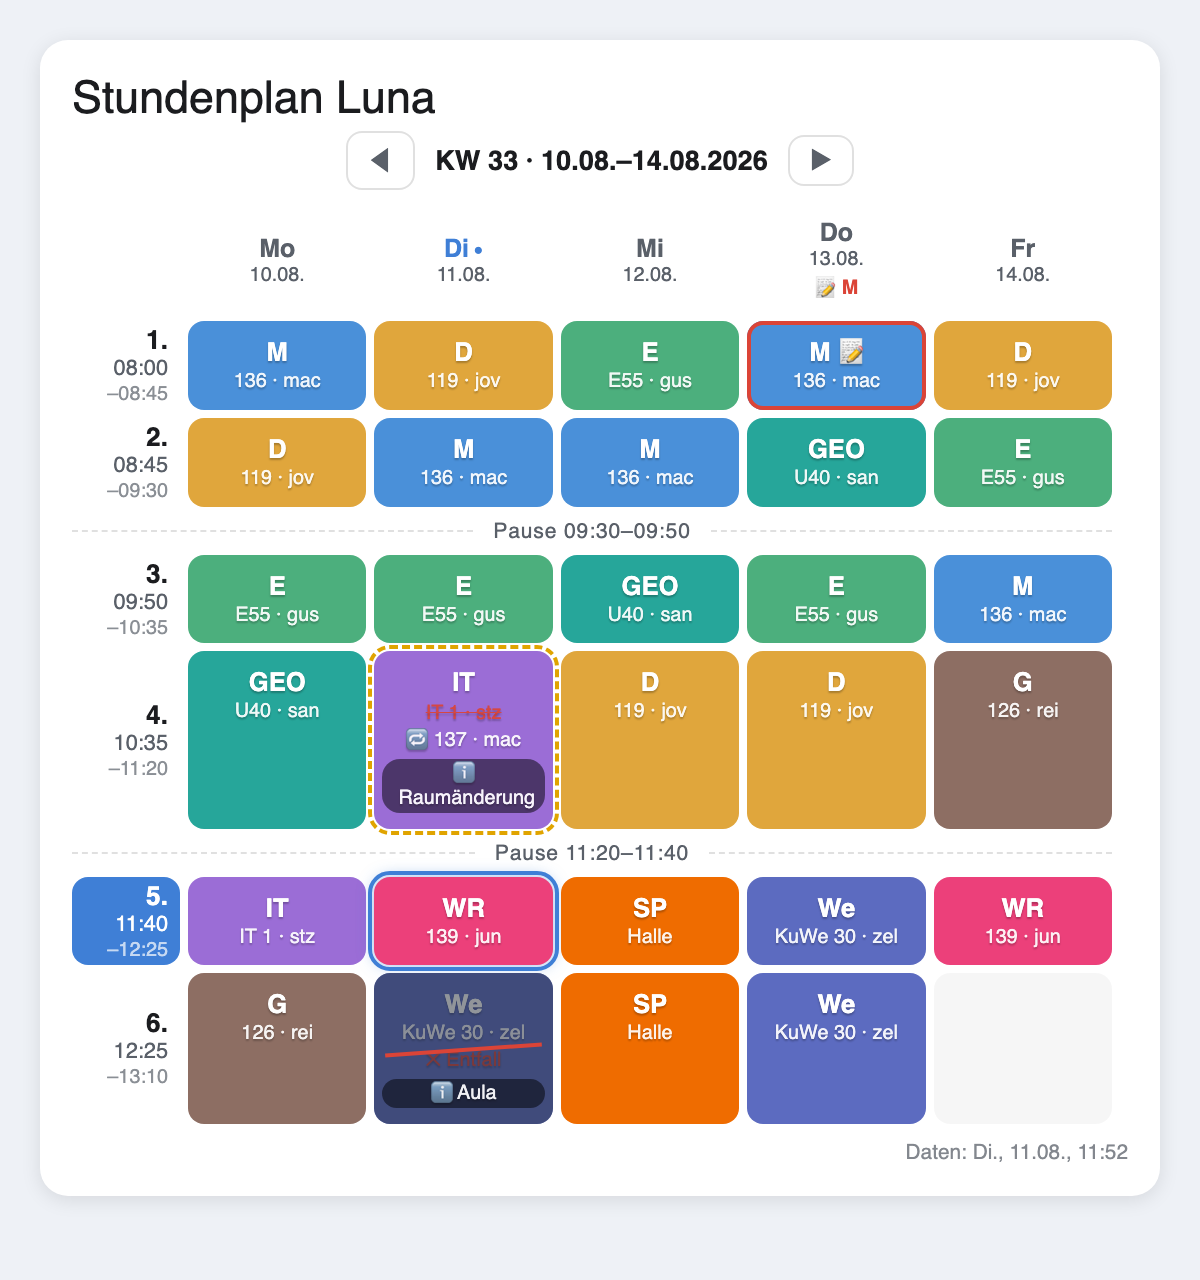
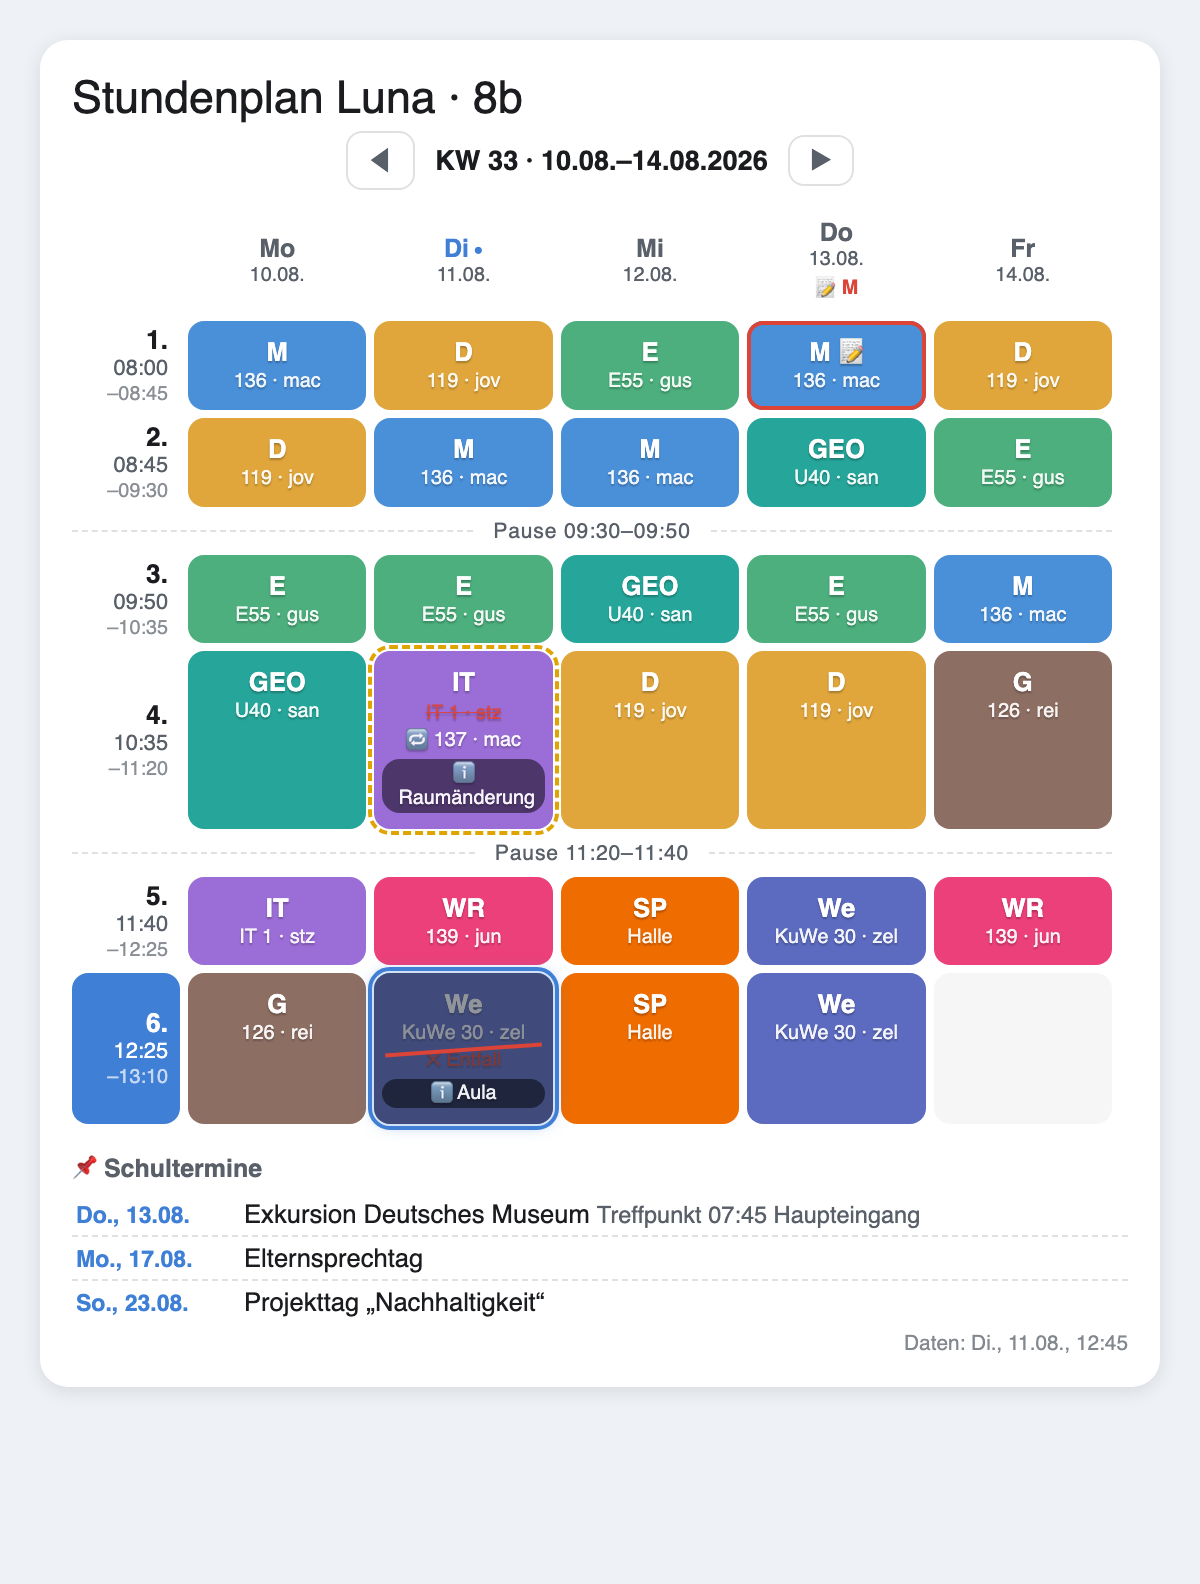
v1.27.0 / Card 1.20.0: Schultermine + Klasse auf der Karte
- Schultermine: schulweite Termine aus dem Schulmanager-Kalender (calendar
  ..._schultermine) via Kalender-API, mit Karenz-Cache, als Liste in Wochen-
  und Heute-Ansicht (Attribut schultermine)
- Klasse: optionales Kind-Feld, erscheint im Karten-Titel (Attribut klasse)
- README-Bilder aktualisiert

diff --git a/dist/stundenplan-card.js b/dist/stundenplan-card.js
@@ -1,4 +1,4 @@
-/* Stundenplan Card v1.19.0 - Companion-Karte fuer den Stundenplan Manager
+/* Stundenplan Card v1.20.0 - Companion-Karte fuer den Stundenplan Manager
  * https://github.com/Melle79/ha-stundenplan
  *
  * Konfiguration:
@@ -125,6 +125,11 @@ class StundenplanCard extends HTMLElement {
       id.replace(/^sensor\.stundenplan_|_wochenplan$/g, "");
   }
 
+  _klasse(id) {
+    const a = this._hass.states[id] && this._hass.states[id].attributes;
+    return (a && a.klasse) ? String(a.klasse).trim() : "";
+  }
+
   // Lehrer-Kürzel -> Klarname aus dem Verzeichnis (case-insensitiv), "" wenn keiner
   _lehrerName(a, kuerzel) {
     const dir = (a && a.lehrer_namen) || {};
@@ -151,13 +156,15 @@ class StundenplanCard extends HTMLElement {
       inhalt = this._renderSchulschluss(ids);
     } else if (gestapelt) {
       titel = this._config.titel || "Stundenplan";
-      inhalt = ids.map(id =>
-        `<div class="sp-abschnitt"><h3 class="sp-kindname">${this._kindName(id)}</h3>${this._inhaltFuer(id)}</div>`
-      ).join("");
+      inhalt = ids.map(id => {
+        const kl = this._klasse(id);
+        return `<div class="sp-abschnitt"><h3 class="sp-kindname">${this._kindName(id)}${kl ? ` <span class="sp-klasse">${kl}</span>` : ""}</h3>${this._inhaltFuer(id)}</div>`;
+      }).join("");
     } else {
       const id = ids[this._aktivIdx];
+      const kl = this._klasse(id);
       titel = this._config.titel ||
-        `Stundenplan ${(this._hass.states[id]?.attributes?.kind) || ""}`;
+        (`Stundenplan ${(this._hass.states[id]?.attributes?.kind) || ""}` + (kl ? ` · ${kl}` : ""));
       inhalt = this._inhaltFuer(id);
       if (ids.length > 1) {
         chips = `<div class="sp-chips">` + ids.map((eid, i) =>
@@ -297,6 +304,21 @@ class StundenplanCard extends HTMLElement {
             font-size: .8rem; color: var(--secondary-text-color);
             border: 1px solid var(--divider-color); }
           .sp-gross .sp-info { font-size: .92rem; }
+          .sp-klasse { font-size: .7em; font-weight: 600; padding: 1px 8px; border-radius: 10px;
+            background: var(--primary-color); color: var(--text-primary-color, #fff);
+            vertical-align: 2px; margin-left: 6px; }
+          .sp-termine-kopf { margin-top: 10px; font-size: .78rem; font-weight: 600;
+            color: var(--secondary-text-color); }
+          .sp-gross .sp-termine-kopf { font-size: .9rem; }
+          .sp-termine { list-style: none; margin: 4px 0 0; padding: 0; }
+          .sp-termine li { display: flex; gap: 8px; align-items: baseline;
+            font-size: .8rem; color: var(--primary-text-color); padding: 3px 2px;
+            border-bottom: 1px dashed var(--divider-color); }
+          .sp-termine li:last-child { border-bottom: none; }
+          .sp-termin-datum { flex: 0 0 auto; min-width: 76px; font-weight: 600;
+            font-size: .72rem; color: var(--primary-color); }
+          .sp-termin-info { color: var(--secondary-text-color); font-size: .92em; }
+          .sp-gross .sp-termine li { font-size: .95rem; }
           .sp-ha-liste { list-style: none; margin: 6px 0 0; padding: 0; }
           .sp-ha-liste li { display: flex; gap: 8px; align-items: baseline;
             font-size: .8rem; color: var(--primary-text-color); padding: 3px 2px;
@@ -440,7 +462,7 @@ class StundenplanCard extends HTMLElement {
       }
       html += `</tr>`;
     });
-    return html + `</tbody></table>` + this._standHTML(a);
+    return html + `</tbody></table>` + this._termineHTML(a) + this._standHTML(a);
   }
 
   _renderSchulschluss(ids) {
@@ -540,7 +562,21 @@ class StundenplanCard extends HTMLElement {
       html += `<ul class="sp-ha-liste">` + faellig.map(h =>
         `<li><span class="sp-ha-due ${h.due < heute ? "sp-ha-spaet" : ""}">${label(h.due)}</span>${h.titel}</li>`).join("") + `</ul>`;
     }
-    return html;
+    return html + this._termineHTML(a);
+  }
+
+  // Kommende schulweite Termine (nur Schulmanager liefert sie)
+  _termineHTML(a) {
+    const termine = a.schultermine || [];
+    if (!termine.length) return "";
+    const heute = this._iso(new Date());
+    const grenze = this._iso(new Date(Date.now() + 21 * 864e5));
+    const kommend = termine.filter(t => t.datum >= heute && t.datum <= grenze).slice(0, 6);
+    if (!kommend.length) return "";
+    const fmt = d => new Date(d + "T00:00").toLocaleDateString("de-DE",
+      { weekday: "short", day: "2-digit", month: "2-digit" });
+    return `<div class="sp-termine-kopf">📌 Schultermine</div><ul class="sp-termine">` + kommend.map(t =>
+      `<li><span class="sp-termin-datum">${fmt(t.datum)}</span><span class="sp-termin-titel">${t.titel}${t.info ? ` <span class="sp-termin-info">${t.info}</span>` : ""}</span></li>`).join("") + `</ul>`;
   }
 
   _renderHeute(a) {
@@ -688,4 +724,4 @@ window.customCards.push({
   description: "Wochen- und Tagesansicht für den Stundenplan Manager (mit Blockunterricht)",
   preview: false,
 });
-console.info("%c STUNDENPLAN-CARD %c v1.19.0", "background:#4a90d9;color:#fff;padding:2px 6px;border-radius:3px", "");
+console.info("%c STUNDENPLAN-CARD %c v1.20.0", "background:#4a90d9;color:#fff;padding:2px 6px;border-radius:3px", "");

diff --git a/stundenplan-manager/rootfs/card/stundenplan-card.js b/stundenplan-manager/rootfs/card/stundenplan-card.js
@@ -1,4 +1,4 @@
-/* Stundenplan Card v1.19.0 - Companion-Karte fuer den Stundenplan Manager
+/* Stundenplan Card v1.20.0 - Companion-Karte fuer den Stundenplan Manager
  * https://github.com/Melle79/ha-stundenplan
  *
  * Konfiguration:
@@ -125,6 +125,11 @@ class StundenplanCard extends HTMLElement {
       id.replace(/^sensor\.stundenplan_|_wochenplan$/g, "");
   }
 
+  _klasse(id) {
+    const a = this._hass.states[id] && this._hass.states[id].attributes;
+    return (a && a.klasse) ? String(a.klasse).trim() : "";
+  }
+
   // Lehrer-Kürzel -> Klarname aus dem Verzeichnis (case-insensitiv), "" wenn keiner
   _lehrerName(a, kuerzel) {
     const dir = (a && a.lehrer_namen) || {};
@@ -151,13 +156,15 @@ class StundenplanCard extends HTMLElement {
       inhalt = this._renderSchulschluss(ids);
     } else if (gestapelt) {
       titel = this._config.titel || "Stundenplan";
-      inhalt = ids.map(id =>
-        `<div class="sp-abschnitt"><h3 class="sp-kindname">${this._kindName(id)}</h3>${this._inhaltFuer(id)}</div>`
-      ).join("");
+      inhalt = ids.map(id => {
+        const kl = this._klasse(id);
+        return `<div class="sp-abschnitt"><h3 class="sp-kindname">${this._kindName(id)}${kl ? ` <span class="sp-klasse">${kl}</span>` : ""}</h3>${this._inhaltFuer(id)}</div>`;
+      }).join("");
     } else {
       const id = ids[this._aktivIdx];
+      const kl = this._klasse(id);
       titel = this._config.titel ||
-        `Stundenplan ${(this._hass.states[id]?.attributes?.kind) || ""}`;
+        (`Stundenplan ${(this._hass.states[id]?.attributes?.kind) || ""}` + (kl ? ` · ${kl}` : ""));
       inhalt = this._inhaltFuer(id);
       if (ids.length > 1) {
         chips = `<div class="sp-chips">` + ids.map((eid, i) =>
@@ -297,6 +304,21 @@ class StundenplanCard extends HTMLElement {
             font-size: .8rem; color: var(--secondary-text-color);
             border: 1px solid var(--divider-color); }
           .sp-gross .sp-info { font-size: .92rem; }
+          .sp-klasse { font-size: .7em; font-weight: 600; padding: 1px 8px; border-radius: 10px;
+            background: var(--primary-color); color: var(--text-primary-color, #fff);
+            vertical-align: 2px; margin-left: 6px; }
+          .sp-termine-kopf { margin-top: 10px; font-size: .78rem; font-weight: 600;
+            color: var(--secondary-text-color); }
+          .sp-gross .sp-termine-kopf { font-size: .9rem; }
+          .sp-termine { list-style: none; margin: 4px 0 0; padding: 0; }
+          .sp-termine li { display: flex; gap: 8px; align-items: baseline;
+            font-size: .8rem; color: var(--primary-text-color); padding: 3px 2px;
+            border-bottom: 1px dashed var(--divider-color); }
+          .sp-termine li:last-child { border-bottom: none; }
+          .sp-termin-datum { flex: 0 0 auto; min-width: 76px; font-weight: 600;
+            font-size: .72rem; color: var(--primary-color); }
+          .sp-termin-info { color: var(--secondary-text-color); font-size: .92em; }
+          .sp-gross .sp-termine li { font-size: .95rem; }
           .sp-ha-liste { list-style: none; margin: 6px 0 0; padding: 0; }
           .sp-ha-liste li { display: flex; gap: 8px; align-items: baseline;
             font-size: .8rem; color: var(--primary-text-color); padding: 3px 2px;
@@ -440,7 +462,7 @@ class StundenplanCard extends HTMLElement {
       }
       html += `</tr>`;
     });
-    return html + `</tbody></table>` + this._standHTML(a);
+    return html + `</tbody></table>` + this._termineHTML(a) + this._standHTML(a);
   }
 
   _renderSchulschluss(ids) {
@@ -540,7 +562,21 @@ class StundenplanCard extends HTMLElement {
       html += `<ul class="sp-ha-liste">` + faellig.map(h =>
         `<li><span class="sp-ha-due ${h.due < heute ? "sp-ha-spaet" : ""}">${label(h.due)}</span>${h.titel}</li>`).join("") + `</ul>`;
     }
-    return html;
+    return html + this._termineHTML(a);
+  }
+
+  // Kommende schulweite Termine (nur Schulmanager liefert sie)
+  _termineHTML(a) {
+    const termine = a.schultermine || [];
+    if (!termine.length) return "";
+    const heute = this._iso(new Date());
+    const grenze = this._iso(new Date(Date.now() + 21 * 864e5));
+    const kommend = termine.filter(t => t.datum >= heute && t.datum <= grenze).slice(0, 6);
+    if (!kommend.length) return "";
+    const fmt = d => new Date(d + "T00:00").toLocaleDateString("de-DE",
+      { weekday: "short", day: "2-digit", month: "2-digit" });
+    return `<div class="sp-termine-kopf">📌 Schultermine</div><ul class="sp-termine">` + kommend.map(t =>
+      `<li><span class="sp-termin-datum">${fmt(t.datum)}</span><span class="sp-termin-titel">${t.titel}${t.info ? ` <span class="sp-termin-info">${t.info}</span>` : ""}</span></li>`).join("") + `</ul>`;
   }
 
   _renderHeute(a) {
@@ -688,4 +724,4 @@ window.customCards.push({
   description: "Wochen- und Tagesansicht für den Stundenplan Manager (mit Blockunterricht)",
   preview: false,
 });
-console.info("%c STUNDENPLAN-CARD %c v1.19.0", "background:#4a90d9;color:#fff;padding:2px 6px;border-radius:3px", "");
+console.info("%c STUNDENPLAN-CARD %c v1.20.0", "background:#4a90d9;color:#fff;padding:2px 6px;border-radius:3px", "");

diff --git a/stundenplan-manager/rootfs/app/templates/index.html b/stundenplan-manager/rootfs/app/templates/index.html
@@ -479,6 +479,7 @@ function renderKid() {
   let html = `<div class="card">
     <div class="row">
       <input value="${esc(k.name)}" onchange="kind().name=this.value;setDirty(true);renderChips()" style="font-weight:600">
+      <input value="${esc(k.klasse||"")}" placeholder="Klasse" title="z. B. 6E – erscheint auf der Karte" style="width:80px" onchange="kind().klasse=this.value;setDirty(true)">
       <label>Modus:</label>
       <select onchange="kind().modus=this.value;setDirty(true);renderKid()">
         <option value="wochenplan" ${k.modus==="wochenplan"?"selected":""}>Wochenplan (Schule)</option>

diff --git a/stundenplan-manager/rootfs/app/mqtt_publisher.py b/stundenplan-manager/rootfs/app/mqtt_publisher.py
@@ -300,6 +300,7 @@ class SensorPublisher:
             zusatz = {"hausaufgaben_offen": None, "naechste_arbeit": None}
             ha_faellig = []
             arbeiten = []
+            schultermine = []
             if kind.get("schulmanager"):
                 try:
                     aenderungen = quellen.hole_aenderungen(kind, jetzt.date())
@@ -309,9 +310,11 @@ class SensorPublisher:
                     ha_faellig = [h for h in quellen.hole_hausaufgaben_items(kind)
                                   if h["due"] and ab <= h["due"] <= bis][:8]
                     arbeiten = quellen.hole_arbeiten(kind)
+                    schultermine = quellen.hole_schultermine(kind)
                     self._live_cache[kind["id"]] = {
                         "ts": jetzt, "aenderungen": aenderungen, "zusatz": zusatz,
-                        "ha_faellig": ha_faellig, "arbeiten": arbeiten}
+                        "ha_faellig": ha_faellig, "arbeiten": arbeiten,
+                        "schultermine": schultermine}
                 except Exception as exc:
                     # Quelle gestoert (z.B. Schulmanager-API down): letzten
                     # bekannten Stand bis zu 6h weiterzeigen statt die Karte
@@ -322,6 +325,7 @@ class SensorPublisher:
                         zusatz = cache["zusatz"]
                         ha_faellig = cache["ha_faellig"]
                         arbeiten = cache["arbeiten"]
+                        schultermine = cache.get("schultermine", [])
                         log.warning("Quelle fuer %s nicht verfuegbar (%s) - zeige Stand von %s weiter",
                                     kind["name"], exc.__class__.__name__,
                                     cache["ts"].strftime("%H:%M"))
@@ -349,11 +353,13 @@ class SensorPublisher:
 
             plan_payload = json.dumps({
                 "kind": kind["name"],
+                "klasse": (kind.get("klasse") or "").strip(),
                 "modus": kind.get("modus", "wochenplan"),
                 "aenderungen": aenderungen,
                 "hausaufgaben_offen": zusatz["hausaufgaben_offen"],
                 "hausaufgaben_faellig": ha_faellig,
                 "arbeiten": arbeiten,
+                "schultermine": schultermine,
                 "daten_stand": quellen.hole_datenstand(kind) if kind.get("schulmanager") else None,
                 "naechste_arbeit": zusatz["naechste_arbeit"],
                 "schulfrei_zeitraeume": zeitraeume if kind.get("modus", "wochenplan") == "wochenplan" else [],

diff --git a/stundenplan-manager/rootfs/app/schulmanager.py b/stundenplan-manager/rootfs/app/schulmanager.py
@@ -230,6 +230,38 @@ def hole_arbeiten(basis: str) -> list:
     return arbeiten
 
 
+def hole_schultermine(basis: str, tage: int = 28) -> list:
+    """Kommende schulweite Termine aus dem Schultermine-Kalender der
+    Integration. Rueckgabe: [{"datum","titel","info"}], nach Datum sortiert.
+    Kategorien liefert die Integration nicht - nur Titel und Beschreibung."""
+    token = os.environ.get("SUPERVISOR_TOKEN")
+    if not token or "." not in basis:
+        return []
+    cal = f"calendar.{basis.split('.', 1)[1]}_schultermine"
+    von = date.today()
+    bis = von + timedelta(days=tage)
+    url = (f"{API_URL}/calendars/{cal}"
+           f"?start={von.isoformat()}T00:00:00&end={bis.isoformat()}T00:00:00")
+    req = urllib.request.Request(url, headers={"Authorization": f"Bearer {token}"})
+    try:
+        with urllib.request.urlopen(req, timeout=10) as r:
+            events = json.load(r)
+    except Exception as exc:
+        log.debug("Schultermine fuer %s nicht abrufbar: %s", basis, exc)
+        return []
+    termine = []
+    for e in events or []:
+        s = e.get("start")
+        datum = (s.get("date") or s.get("dateTime")) if isinstance(s, dict) else s
+        if not datum:
+            continue
+        termine.append({"datum": str(datum)[:10],
+                        "titel": (e.get("summary") or "Termin").strip(),
+                        "info": (e.get("description") or "").strip()})
+    termine.sort(key=lambda x: x["datum"])
+    return termine
+
+
 def hole_fach_details(basis: str) -> dict:
     """Raum, Lehrer und voller Fachname je Kuerzel aus den
     Stundenplan-heute/morgen-Sensoren (raw.lessons).

diff --git a/stundenplan-manager/rootfs/app/quellen.py b/stundenplan-manager/rootfs/app/quellen.py
@@ -65,6 +65,13 @@ def hole_arbeiten(kind: dict) -> list:
     return _adapter(kind).hole_arbeiten(kind["schulmanager"])
 
 
+def hole_schultermine(kind: dict) -> list:
+    """Schulweite Termine, sofern die Quelle sie anbietet (nur Schulmanager);
+    andere Adapter liefern nichts."""
+    fn = getattr(_adapter(kind), "hole_schultermine", None)
+    return fn(kind["schulmanager"]) if fn else []
+
+
 def hole_zusatzinfos(kind: dict) -> dict:
     return _adapter(kind).hole_zusatzinfos(kind["schulmanager"])
 

diff --git a/HANDBUCH.md b/HANDBUCH.md
@@ -132,6 +132,12 @@ Räume und Lehrer sind **kindspezifisch** (Geschwister an verschiedenen Schulen 
 
 ![Heute-Ansicht mit Lehrer-Klarnamen](docs/img/heute.png)
 
+## Schultermine & Klasse
+
+**Schultermine** (nur Schulmanager): Kommende schulweite Termine (Exkursionen, Elternsprechtag, Projekttage …) zieht das Add-on aus dem Schulmanager-Kalender und zeigt sie als „📌 Schultermine"-Liste unter der Wochen- und Heute-Ansicht (nächste ~3 Wochen, mit Datum und Kurzinfo). Schulmanager liefert dabei **keine Kategorien** (die farbigen Gruppen aus dem Web-Kalender), daher erscheinen die Termine ohne Farbgruppierung. Das Eltern-Portal liefert keine Schultermine.
+
+**Klasse**: Im Kind-Panel lässt sich pro Kind optional eine Klasse eintragen (z. B. „6E"). Sie erscheint im Karten-Titel bzw. Kind-Header („Stundenplan Nele · 6E"). Das Feld wird von Hand gepflegt – Schulmanager liefert nur eine numerische Klassen-ID, keinen lesbaren Namen.
+
 ## Hausaufgaben & Klassenarbeiten
 
 Bei Schulmanager erscheinen offene **Hausaufgaben** (aus der Todo-Liste) und die **nächste Arbeit** in der Heute- und Schulschluss-Ansicht sowie im Morgen-Push. Fällige Hausaufgaben werden mit Datum (heute/morgen/überfällig) gelistet.

diff --git a/README.md b/README.md
@@ -15,6 +15,8 @@ Home Assistant Add-on zur Verwaltung der Stundenpläne mehrerer Kinder – inklu
 - Konfigurierbares Stundenraster (Standard + pro Kind überschreibbar), Pausen automatisch aus Rasterlücken
 - **Datenquellen** (optional, pro Kind): **Schulmanager Online** und **Eltern-Portal** – Plan-Import per Knopfdruck oder täglicher Auto-Import
 - **Vertretungen & Entfall** (Schulmanager): Overlay auf der Karte; entfallene Randstunden verschieben Schulbeginn/-schluss
+- **Schultermine** (Schulmanager): kommende schulweite Termine (Exkursionen, Elternsprechtag …) als Liste auf der Karte
+- **Klasse** pro Kind (z. B. „6E") im Karten-Titel
 - **Lehrer-Klarnamen**: Kürzel zu vollen Namen auflösen (von Hand oder automatisch vom Eltern-Portal), Anzeige auf der Karte nach Platz
 - **Blockunterricht-Modus**: Blockzeiträume pflegen, außerhalb zeigen Sensoren und Karte „Betrieb"
 - Druckansicht (A4 quer) mit vollen Fachnamen, Räumen und Pausen

diff --git a/CHANGELOG.md b/CHANGELOG.md
@@ -1,5 +1,11 @@
 # Changelog
 
+## 1.27.0 - August 2026 (Card 1.20.0)
+
+### Neu
+- **Schultermine auf der Karte**: Kommende schulweite Termine (Exkursionen, Elternsprechtag, Projekttage …) aus dem Schulmanager-Kalender erscheinen als „📌 Schultermine"-Liste unter der Wochen- und Heute-Ansicht (nächste ~3 Wochen, mit Datum und – falls vorhanden – Kurzinfo). Neues Attribut `schultermine` je Kind; robust über den Karenz-Cache. Hinweis: Schulmanager liefert keine Kategorien, daher ohne Farbgruppen
+- **Klasse pro Kind**: Optionales Feld „Klasse" im Kind-Panel (z. B. „6E"), das im Karten-Titel bzw. Kind-Header erscheint („Stundenplan Nele · 6E"). Von Hand pflegbar – Schulmanager liefert keinen lesbaren Klassennamen. Neues Attribut `klasse`
+
 ## 1.26.0 - August 2026 (Card 1.19.0)
 
 ### Neu
